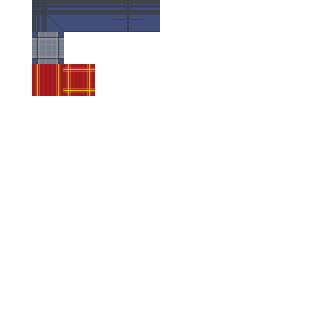
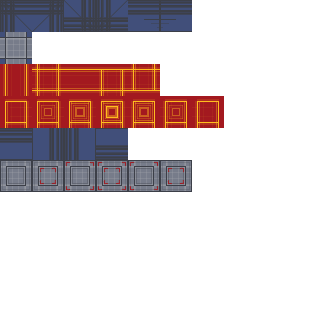
tile animations redpulse and endsec

Changed region(s): [[0.0, 0.0, 0.7188, 0.625], [0.4688, 0.0, 0.625, 0.125]]

diff --git a/js/app.js b/js/app.js
@@ -224,14 +224,16 @@ document.addEventListener('DOMContentLoaded', ()=> {
         box.style.backgroundImage = 'url(images/truetiles.png)';
 
         switch (map[i][j]){
-          case 'g': box.style.backgroundPosition = '-32px -32px'; // chipfloor
+          case 'g': box.style.backgroundPosition = '0px -160px'; // chipfloor
             box.setAttribute('state','false');
+            box.setAttribute('class','redpulse');
             break;
-          case 'b': box.style.backgroundPosition = '-64px 0px'; // bluewall
+          case 'b': box.style.backgroundPosition = '-128px 0px'; // bluewall
             box.setAttribute('state','true');
             break;
           case 'w': box.style.backgroundPosition = '-32px -64px'; //bad lava
             box.setAttribute('state','deadlylava');
+            box.setAttribute('class','endsec');
         }
         box.style.float ='left';
         main.appendChild(box);
@@ -393,6 +395,7 @@ document.addEventListener('DOMContentLoaded', ()=> {
     splash.style.backgroundColor ='red';
     const contain = document.getElementById('container');
     contain.appendChild(splash);
+    goButton();
   }
   function levelSplash(){
     const splash = document.createElement('div');
@@ -407,10 +410,21 @@ document.addEventListener('DOMContentLoaded', ()=> {
     const contain = document.getElementById('container');
     contain.appendChild(splash);
   }
+
   function death(){
     resetLevel();
     lifeCount('false');
   }
 
+  function goButton(){
+    const gobutt =  document.createElement('div');
+    const levelsplash = document.getElementById('levelsplash');
+    gobutt.style.width = '300px';
+    gobutt.style.height = '300px';
+    gobutt.style.margin = '90px';
+    gobutt.style.border = '2px solid black';
+    levelsplash.appendChild(gobutt);
+
+  }
 
 });

diff --git a/css/style.css b/css/style.css
@@ -62,8 +62,35 @@ font-family: 'Bungee Hairline', cursive;
   text-stroke
 }
 
-  
 
+.redpulse {
+width: 32px;
+    height: 32px;
+    background-image: url("images/truetiles.png");
+
+
+            animation: redpulse 2s steps(6) infinite;
+}
+
+
+@keyframes redpulse {
+   from { background-position:    0px -160px; }
+     to { background-position: -192px -160px; }
+}
+.endsec {
+width: 32px;
+    height: 32px;
+    background-image: url("images/truetiles.png");
+
+
+            animation: endsec 1s steps(7) infinite;
+}
+
+
+@keyframes endsec {
+   from { background-position:    0px -96px; }
+     to { background-position: -224px -96px; }
+}
 
 .heart {
 width: 32px;
